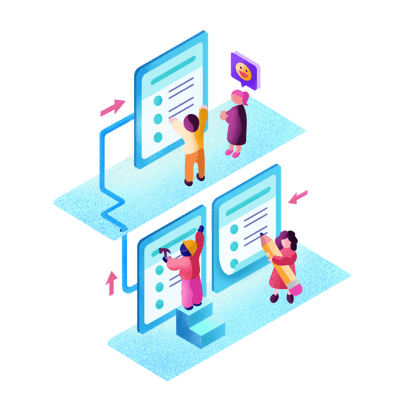
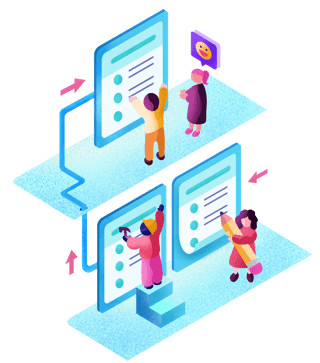
Enlarge value illustration

Changed region(s): [[0.0312, 0.0303, 0.9688, 1.0]]

diff --git a/src/index.html b/src/index.html
@@ -128,7 +128,7 @@
             <p class="is-size-4">We want to maximize the value we give to our members. We believe that what we do does not have to be perfect to produce strong results. Completion produces results. Perfectionism delays and kills results.</p>
           </div>
           <div class="column has-text-centered">
-            <img src="/recweek/cv/delivery-min.png" class="ux-image">
+            <img src="/recweek/cv/delivery.png" class="delivery-image">
           </div>
         </div>
         <div class="columns wow fadeInLeft is-vcentered is-desktop" data-wow-delay="0.3s">

diff --git a/src/scss/main.scss b/src/scss/main.scss
@@ -57,6 +57,10 @@ $family-sans-serif: 'Proxima Nova', Georgia, sans-serif;
   width: 100%;
   max-width: 25rem;
 }
+.delivery-image {
+  width: 100%;
+  max-width: 25rem;
+}
 .rec-image {
   width: 100%;
   max-width: 25rem;
